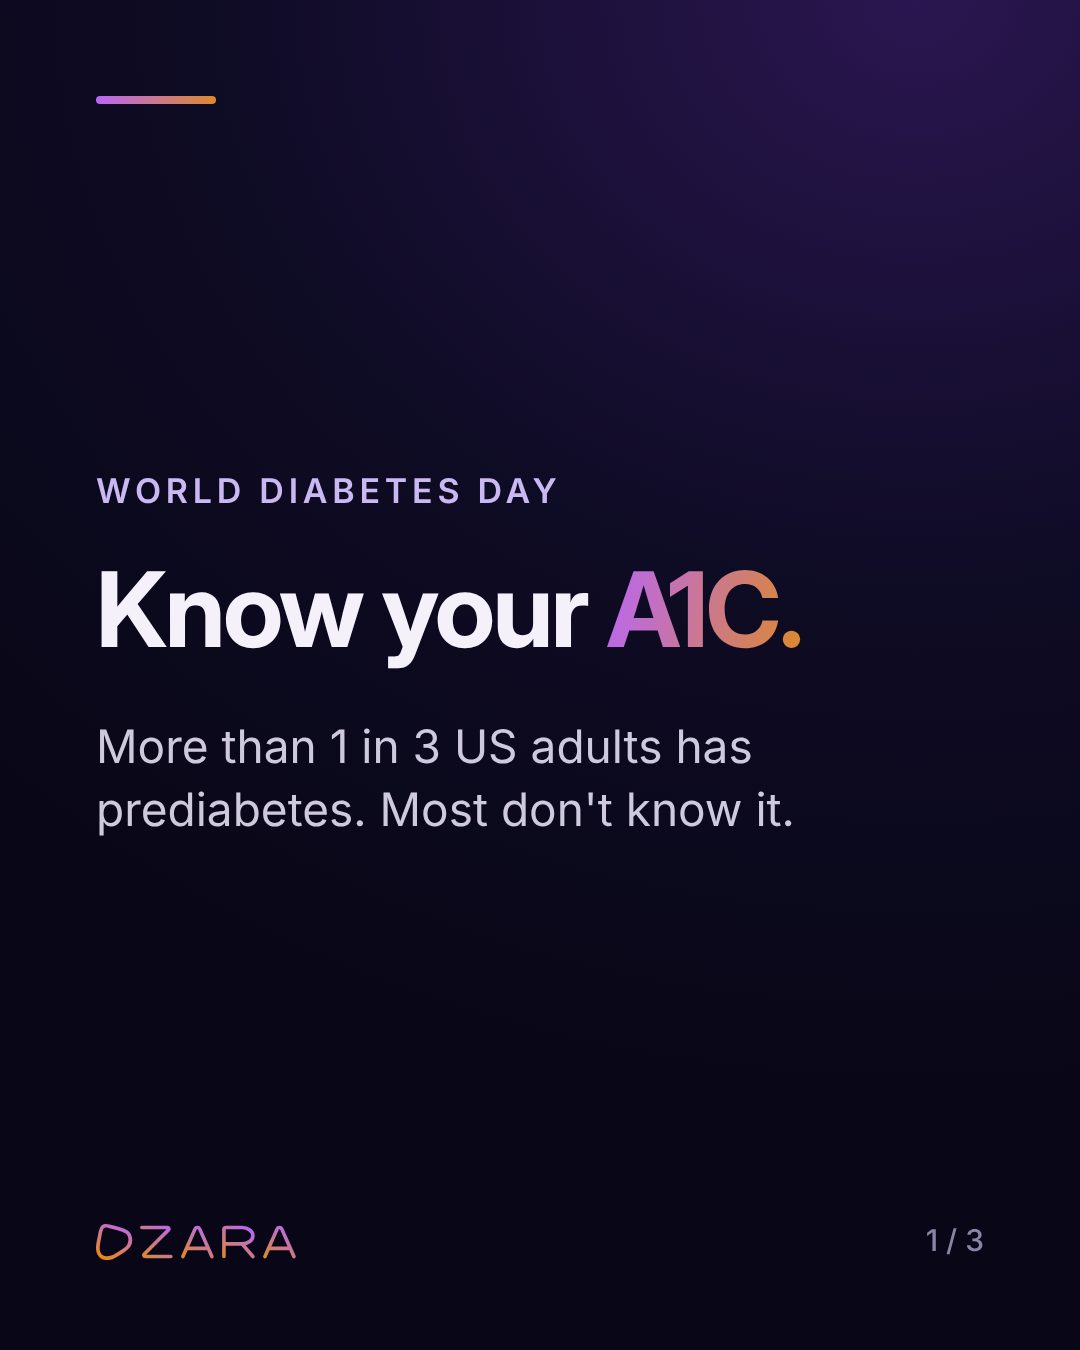
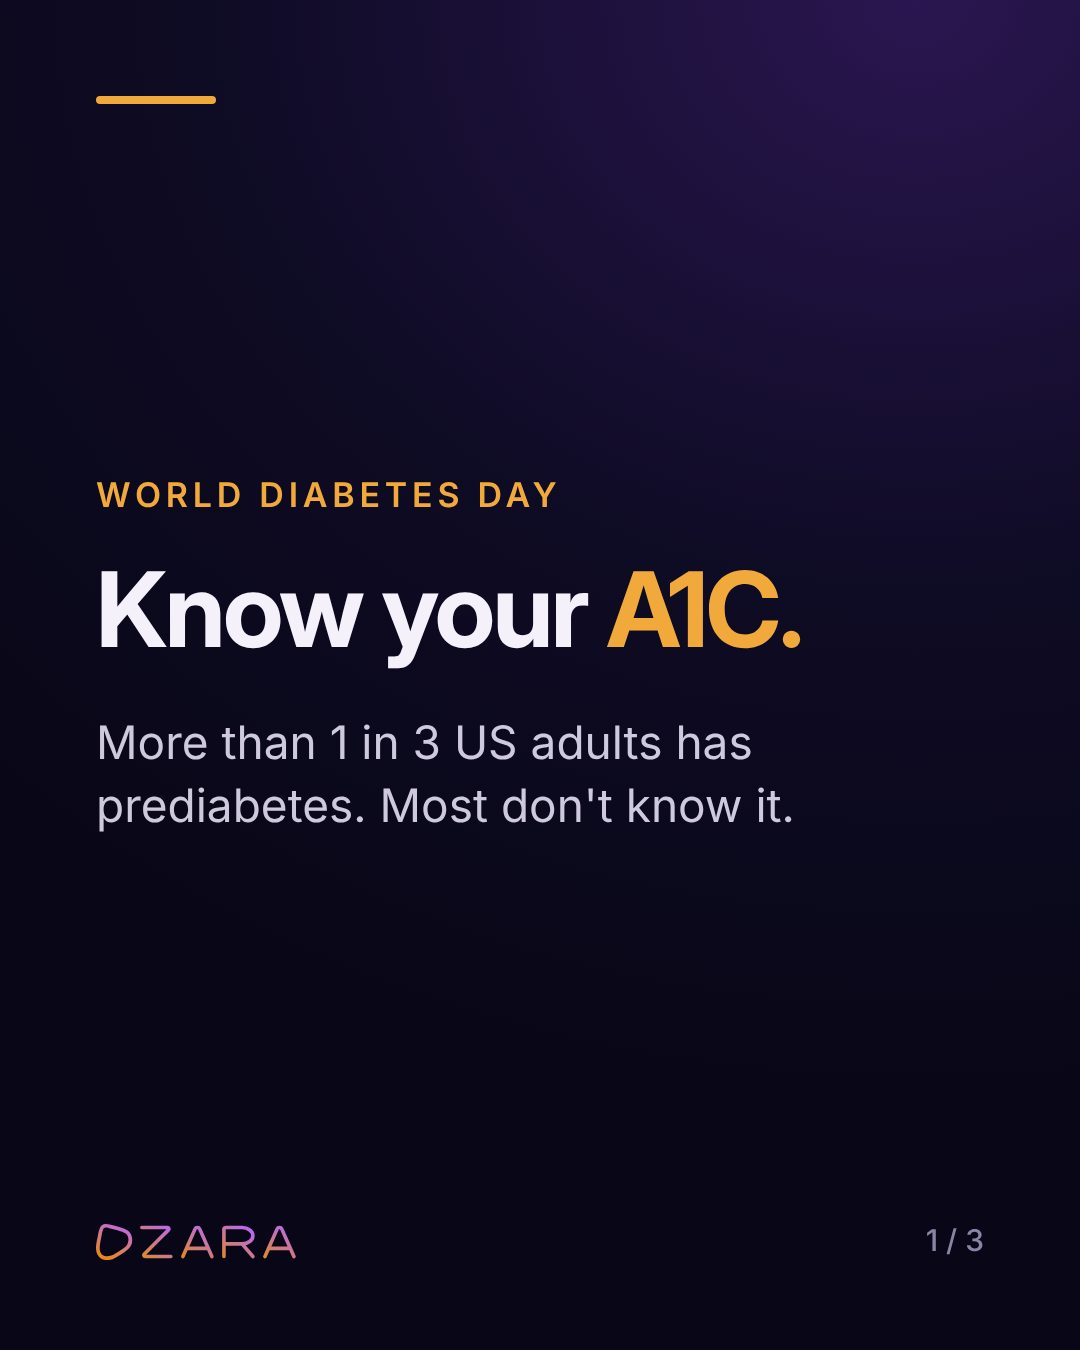
Week 1 v2: condition accent, light/dark, charts, two Reels

diff --git a/templates/render.py b/templates/render.py
@@ -1,38 +1,112 @@
-"""Render Ozara carousel slides (1080x1350 JPEG) from a JSON spec.
-Usage: python3 render.py spec.json out_dir
-spec.json = {"slides": ["<html body for slide 1>", ...]}
-Classes: .k kicker, h1 headline, .g gradient text, p body, .pill CTA, .chips/.chip tags.
+"""Render Ozara social slides from a JSON spec.
+
+Usage:
+  python3 render.py spec.json out_dir            # 1080x1350 carousel JPEGs (slide_N.jpg)
+  python3 render.py spec.json out_dir --reel     # 1080x1920 frames (beat_N.jpg) for reel.sh
+
+spec.json:
+  {"accent": "sugar|pressure|cholesterol|brand",
+   "slides": [ {"theme": "dark|light", "html": "<body html>"} , ... ]}
+  (A slide may also be a plain HTML string = dark theme.)
+
+Building blocks (classes):
+  .k kicker | h1 headline | span.g gradient | span.a accent color | p body
+  .pill CTA | .chips/.chip tags
+  .big   giant number (lab result style);   .big small = unit/label
+  .bars  > .bar[data-v=0..100] with <b>label</b><i>value</i>   (horizontal bar chart)
+  .split > .col.muted + .col.ozara, each with .k, h2, p      (side-by-side comparison)
+  .range > .seg (3 segments) + .marker[style="left:NN%"]     (range bar)
+  .src   small source line
 """
 import asyncio, json, sys, os
 from playwright.async_api import async_playwright
-HERE=os.path.dirname(os.path.abspath(__file__))
-logo=open(os.path.join(HERE,'logo.svg')).read()
-G="linear-gradient(100deg,#B966F8,#DD8929)"
-def page(body,n,total):
+
+HERE = os.path.dirname(os.path.abspath(__file__))
+LOGO = open(os.path.join(HERE, 'logo.svg')).read()
+G = "linear-gradient(100deg,#B966F8,#DD8929)"
+ACCENTS = {  # one accent per condition; logo, type and gradient stay constant
+    "sugar": "#F2A93B", "pressure": "#FF7A6B", "cholesterol": "#A98BFF", "brand": "#C9B8F2"}
+ACCENTS_ON_LIGHT = {  # deeper shades for contrast on the cream background
+    "sugar": "#B86A00", "pressure": "#D2412E", "cholesterol": "#6A49D6", "brand": "#6A49D6"}
+THEMES = {
+    "dark": dict(bg="radial-gradient(120% 80% at 85% 0%,#2a1650 0%,#0E0B24 55%,#090717 100%)",
+                 fg="#F4F1FA", body="#CFC9DE", dim="#8C84A6", line="#4A3D73", card="rgba(255,255,255,.06)"),
+    "light": dict(bg="linear-gradient(160deg,#FBF7F1 0%,#F3ECE2 100%)",
+                  fg="#17122E", body="#4A4560", dim="#8A8399", line="#D8CFC3", card="rgba(23,18,46,.05)"),
+}
+
+def page(slide, n, total, accent, reel):
+    if isinstance(slide, str):
+        slide = {"theme": "dark", "html": slide}
+    t = THEMES[slide.get("theme", "dark")]
+    light = slide.get("theme") == "light"
+    A = (ACCENTS_ON_LIGHT if light else ACCENTS).get(accent, ACCENTS["brand"])
+    H = 1920 if reel else 1350
+    top, bottom = (300, 360) if reel else (150, 190)
+    counter = "" if reel else f'<div class="n">{n} / {total}</div>'
     return f"""<html><head><style>
 *{{margin:0;padding:0;box-sizing:border-box}}
-body{{width:1080px;height:1350px;background:radial-gradient(120% 80% at 85% 0%,#2a1650 0%,#0E0B24 55%,#090717 100%);color:#F4F1FA;font-family:'Inter';position:relative;overflow:hidden}}
-.wrap{{position:absolute;left:96px;right:96px;top:150px;bottom:190px;display:flex;flex-direction:column;justify-content:center}}
-.k{{font-size:34px;font-weight:600;letter-spacing:.14em;text-transform:uppercase;color:#C9B8F2;margin-bottom:44px}}
+body{{width:1080px;height:{H}px;background:{t['bg']};color:{t['fg']};font-family:'Inter';position:relative;overflow:hidden}}
+.wrap{{position:absolute;left:96px;right:96px;top:{top}px;bottom:{bottom}px;display:flex;flex-direction:column;justify-content:center}}
+.k{{font-size:34px;font-weight:600;letter-spacing:.14em;text-transform:uppercase;color:{A};margin-bottom:40px}}
 h1{{font-family:'Inter Display','Inter';font-weight:700;font-size:104px;line-height:1.04;letter-spacing:-.025em}}
+h2{{font-family:'Inter Display','Inter';font-weight:700;font-size:62px;line-height:1.08;letter-spacing:-.02em}}
 .g{{background:{G};-webkit-background-clip:text;color:transparent}}
-p{{font-size:46px;line-height:1.35;color:#CFC9DE;margin-top:52px}}
-.logo{{position:absolute;left:96px;bottom:90px;width:200px}}
-.n{{position:absolute;right:96px;bottom:92px;font-size:30px;color:#8C84A6;font-weight:500}}
-.bar{{position:absolute;left:96px;top:96px;width:120px;height:8px;border-radius:4px;background:{G}}}
-.pill{{display:inline-block;margin-top:56px;padding:22px 36px;border-radius:999px;background:{G};color:#0E0B24;font-weight:700;font-size:38px}}
-.chips{{margin-top:48px;display:flex;flex-wrap:wrap;gap:18px}}
-.chip{{padding:16px 28px;border:2px solid #4A3D73;border-radius:999px;font-size:36px;color:#E6E0F5;font-weight:500}}
-</style></head><body><div class="bar"></div><div class="wrap">{body}</div>
-<div class="logo">{logo}</div><div class="n">{n} / {total}</div></body></html>"""
-async def main(spec,out):
+.a{{color:{A}}}
+p{{font-size:46px;line-height:1.35;color:{t['body']};margin-top:48px}}
+.src{{font-size:28px;color:{t['dim']};margin-top:40px}}
+.logo{{position:absolute;left:96px;bottom:{'150' if reel else '90'}px;width:200px}}
+.n{{position:absolute;right:96px;bottom:92px;font-size:30px;color:{t['dim']};font-weight:500}}
+.bar0{{position:absolute;left:96px;top:{'200' if reel else '96'}px;width:120px;height:8px;border-radius:4px;background:{A}}}
+.pill{{display:inline-block;margin-top:56px;padding:22px 36px;border-radius:999px;background:{G};color:#0E0B24;font-weight:700;font-size:38px;align-self:flex-start}}
+.chips{{margin-top:44px;display:flex;flex-wrap:wrap;gap:18px}}
+.chip{{padding:16px 28px;border:2px solid {t['line']};border-radius:999px;font-size:36px;font-weight:500}}
+.big{{font-family:'Inter Display','Inter';font-weight:800;font-size:330px;line-height:.9;letter-spacing:-.04em;color:{A}}}
+.big small{{display:block;font-size:44px;letter-spacing:.12em;font-weight:600;text-transform:uppercase;color:{t['dim']};margin-bottom:24px}}
+.bars{{margin-top:56px;display:flex;flex-direction:column;gap:40px}}
+.bar{{position:relative}}
+.bar b{{display:block;font-size:36px;font-weight:600;color:{t['body']};margin-bottom:14px}}
+.bar .track{{height:84px;border-radius:18px;background:{t['card']};overflow:hidden}}
+.bar .fill{{height:100%;border-radius:18px;background:{t['dim']};display:flex;align-items:center;justify-content:flex-end;padding-right:26px;font-size:40px;font-weight:700;color:#fff}}
+.bar.win .fill{{background:{A};color:#17122E}}
+.split{{display:grid;grid-template-columns:1fr 1fr;gap:28px;margin-top:20px}}
+.col{{border-radius:32px;padding:44px 40px;min-height:{'980' if reel else '760'}px;display:flex;flex-direction:column}}
+.col .k{{margin-bottom:28px;font-size:28px}}
+.col h2{{font-size:54px}}
+.col p{{font-size:36px;margin-top:28px}}
+.col.muted{{background:{t['card']};color:{t['dim']}}}
+.col.muted .k,.col.muted h2,.col.muted p{{color:{t['dim']}}}
+.col.ozara{{background:#17122E;border:3px solid {A}}}
+.col.ozara h2{{color:#F4F1FA}} .col.ozara p{{color:#CFC9DE}}
+.range{{margin-top:64px}}
+.range .track{{display:grid;grid-template-columns:1fr 1fr 1fr;height:72px;border-radius:36px;overflow:hidden}}
+.range .s1{{background:#6FCF97}} .range .s2{{background:{ACCENTS.get(accent, ACCENTS["brand"])}}} .range .s3{{background:#FF7A6B}}
+.range .labels{{display:grid;grid-template-columns:1fr 1fr 1fr;margin-top:26px;font-size:32px;font-weight:600;color:{t['body']}}}
+.range .labels span:nth-child(2){{color:{A};white-space:nowrap}}
+.rows{{margin-top:56px;display:flex;flex-direction:column;gap:26px}}
+.row{{display:flex;align-items:baseline;gap:28px;font-size:44px}}
+.row b{{font-family:'Inter Display','Inter';font-size:64px;min-width:300px}}
+</style></head><body><div class="bar0"></div><div class="wrap">{slide['html']}</div>
+<div class="logo">{LOGO}</div>{counter}</body></html>"""
+
+async def main(spec_path, out, reel=False):
     from PIL import Image
-    slides=json.load(open(spec))["slides"]; os.makedirs(out,exist_ok=True)
+    spec = json.load(open(spec_path))
+    slides, accent = spec["slides"], spec.get("accent", "brand")
+    os.makedirs(out, exist_ok=True)
+    H = 1920 if reel else 1350
     async with async_playwright() as pw:
-        b=await pw.chromium.launch(); pg=await b.new_page(viewport={'width':1080,'height':1350})
-        for i,s in enumerate(slides,1):
-            await pg.set_content(page(s,i,len(slides))); await pg.wait_for_timeout(300)
-            png=os.path.join(out,f'slide_{i}.png'); await pg.screenshot(path=png)
-            Image.open(png).convert('RGB').save(os.path.join(out,f'slide_{i}.jpg'),quality=82,optimize=True,progressive=True); os.remove(png)
+        b = await pw.chromium.launch()
+        pg = await b.new_page(viewport={'width': 1080, 'height': H})
+        for i, s in enumerate(slides, 1):
+            await pg.set_content(page(s, i, len(slides), accent, reel))
+            await pg.wait_for_timeout(300)
+            png = os.path.join(out, f'tmp_{i}.png')
+            await pg.screenshot(path=png)
+            name = f'beat_{i}.jpg' if reel else f'slide_{i}.jpg'
+            Image.open(png).convert('RGB').save(os.path.join(out, name), quality=92 if reel else 82, optimize=True, progressive=not reel)
+            os.remove(png)
         await b.close()
-asyncio.run(main(sys.argv[1],sys.argv[2]))
+
+if __name__ == "__main__":
+    asyncio.run(main(sys.argv[1], sys.argv[2], "--reel" in sys.argv))

diff --git a/templates/reel.py b/templates/reel.py
@@ -1,0 +1,29 @@
+"""Join reel beats (beat_N.jpg from render.py --reel) into a 1080x1920 30fps MP4 with crossfades.
+
+Usage: python3 reel.py out_dir 2.2,2.2,2.6,3.5   (seconds each beat is on screen)
+Writes out_dir/reel.mp4 (H.264 + silent AAC track, which IG/TikTok/YouTube accept).
+"""
+import subprocess, sys, os
+
+out, durs = sys.argv[1], [float(x) for x in sys.argv[2].split(',')]
+X = 0.35  # crossfade seconds
+cmd = ['ffmpeg', '-y', '-loglevel', 'error']
+for i, d in enumerate(durs, 1):
+    cmd += ['-loop', '1', '-framerate', '30', '-t', f'{d + X:.2f}', '-i', os.path.join(out, f'beat_{i}.jpg')]
+cmd += ['-f', 'lavfi', '-t', f'{sum(durs) + X:.2f}', '-i', 'anullsrc=r=44100:cl=stereo']
+# gentle 3% push-in on every beat so stills feel alive, then chain crossfades
+f, prev, off = [], None, 0.0
+for i, d in enumerate(durs):
+    n = int((d + X) * 30)
+    f.append(f"[{i}:v]scale=1080:1920,zoompan=z='1+0.03*on/{n}':x='iw/2-(iw/zoom/2)':y='ih/2-(ih/zoom/2)':d=1:s=1080x1920:fps=30,format=yuv420p[v{i}]")
+for i in range(1, len(durs)):
+    off += durs[i - 1]
+    a = prev or 'v0'
+    f.append(f"[{a}][v{i}]xfade=transition=fade:duration={X}:offset={off:.2f}[x{i}]")
+    prev = f'x{i}'
+cmd += ['-filter_complex', ';'.join(f), '-map', f'[{prev or "v0"}]', '-map', f'{len(durs)}:a',
+        '-c:v', 'libx264', '-crf', '20', '-preset', 'veryfast', '-pix_fmt', 'yuv420p', '-r', '30',
+        '-c:a', 'aac', '-shortest', '-movflags', '+faststart', os.path.join(out, 'reel.tmp.mp4')]
+subprocess.run(cmd, check=True)
+os.replace(os.path.join(out, 'reel.tmp.mp4'), os.path.join(out, 'reel.mp4'))
+print('ok', os.path.join(out, 'reel.mp4'))
